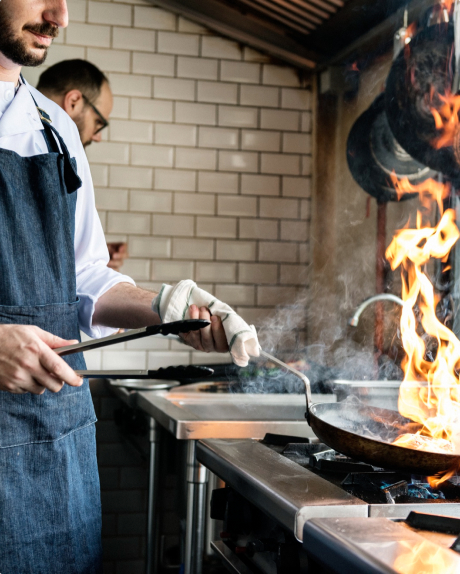
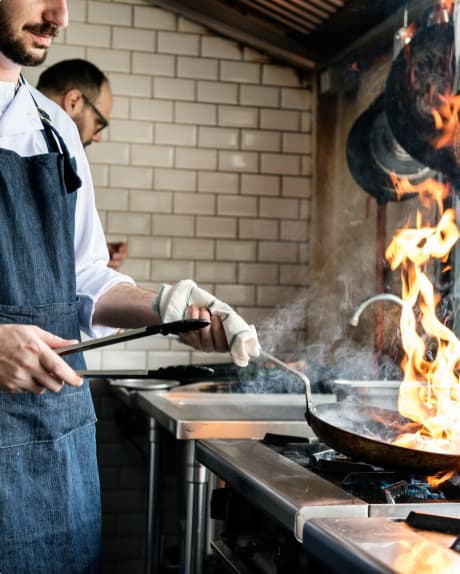
added compressed images

diff --git a/src/partials/r-section-kitchen.html b/src/partials/r-section-kitchen.html
@@ -34,14 +34,14 @@
                 >
 
                 <source
-                srcset="/src/images/restaurant-interior-mobile.jpg 1x, /src/images/restaurant-interior-mobile@2x.jpg 2x"
+                srcset="/src/images/r-section-kitchen-1_mobile.jpg 1x, /src/images/r-section-kitchen-1_mobile@2x.jpg 2x"
                 media="(max-width: 413px)"
                 width="244"
                 height="322"
                 >
 
                 <img class="hp-section-common__image-1" 
-                src="/src/images/restaurant-interior-mobile.jpg" 
+                src="/src/images/r-section-kitchen-1_mobile.jpg" 
                 alt="interior design">
             </picture>
         </div>
@@ -64,21 +64,21 @@
                 >
 
                 <source
-                srcset="/src/images/hp-section-common-2.jpg 1x 1x, /src/images/hp-section-common-2@2x.jpg 2x"
+                srcset="/src/images/r-section-kitchen-2_mobile.jpg 1x, /src/images/r-section-kitchen-2_mobile@2x.jpeg 2x"
                 media="(min-width: 414px)"
                 width="200"
                 height="278"
                 >
 
                 <source
-                srcset="/src/images/hp-section-common-2.jpg 1x, /src/images/hp-section-common-2@2x.jpg 2x"
+                srcset="/src/images/r-section-kitchen-2_mobile.jpg 1x, /src/images/r-section-kitchen-2_mobile@2x.jpeg 2x"
                 media="(max-width: 413px)"
                 width="200"
                 height="278"
                 >
 
                 <img class="hp-section-common__image-2" 
-                src="/src/images/hp-section-common-2.jpg" 
+                src="/src/images/r-section-kitchen-2_mobile.jpg" 
                 alt="interior design">
 
             </picture>
